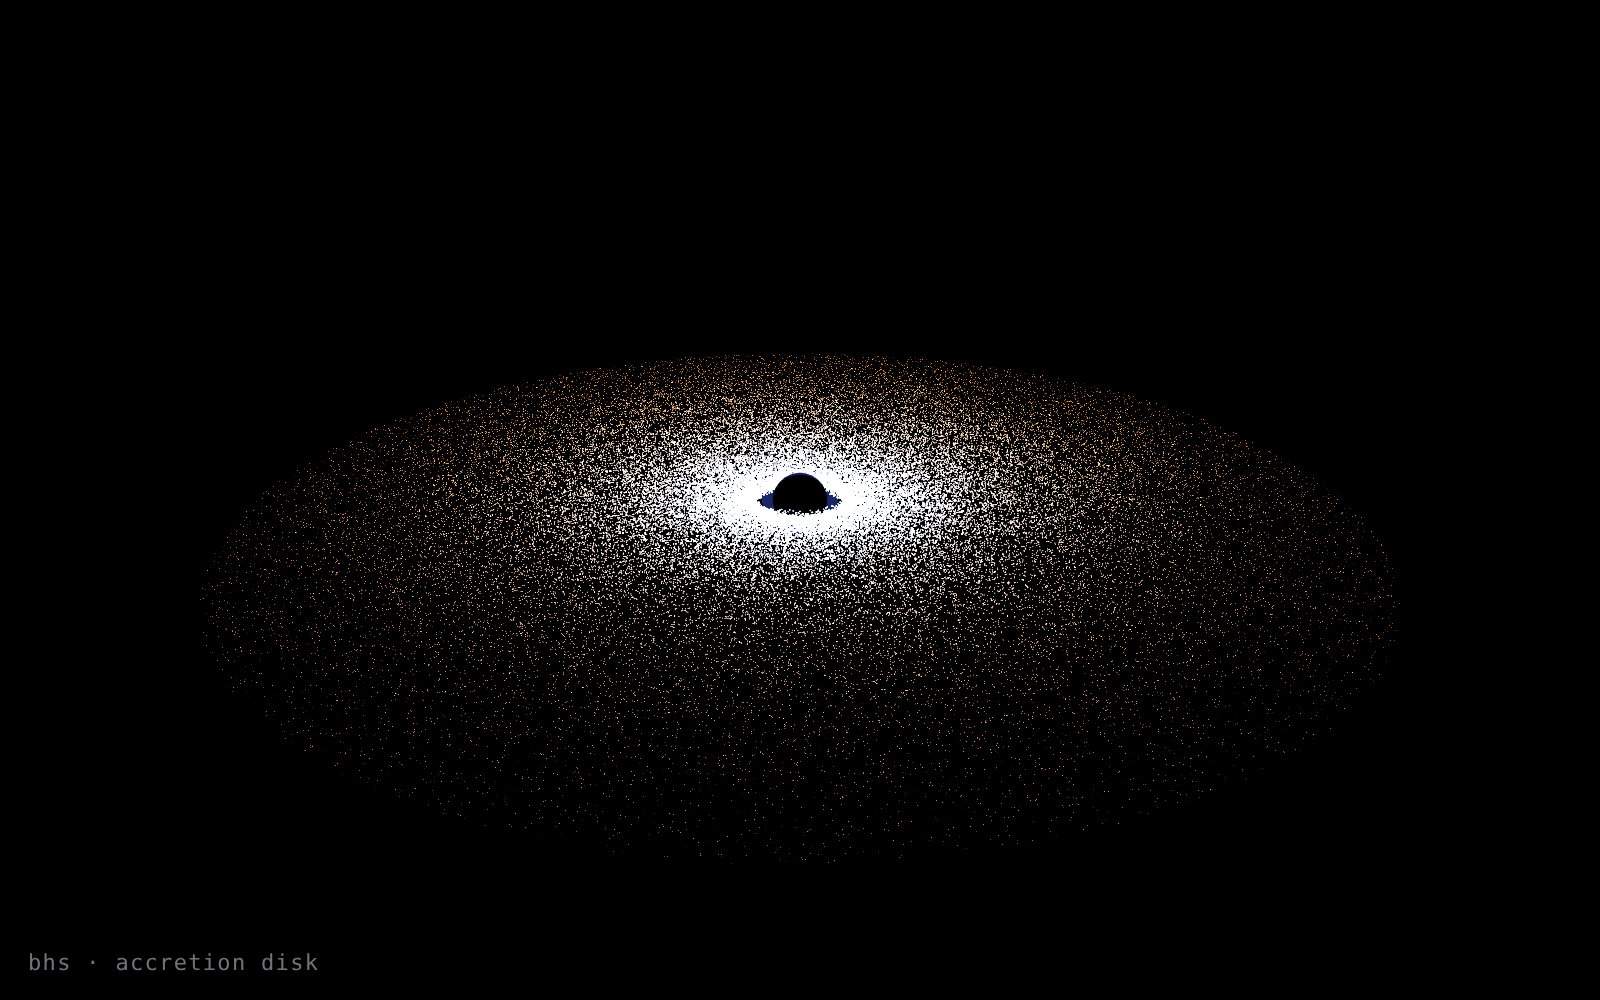
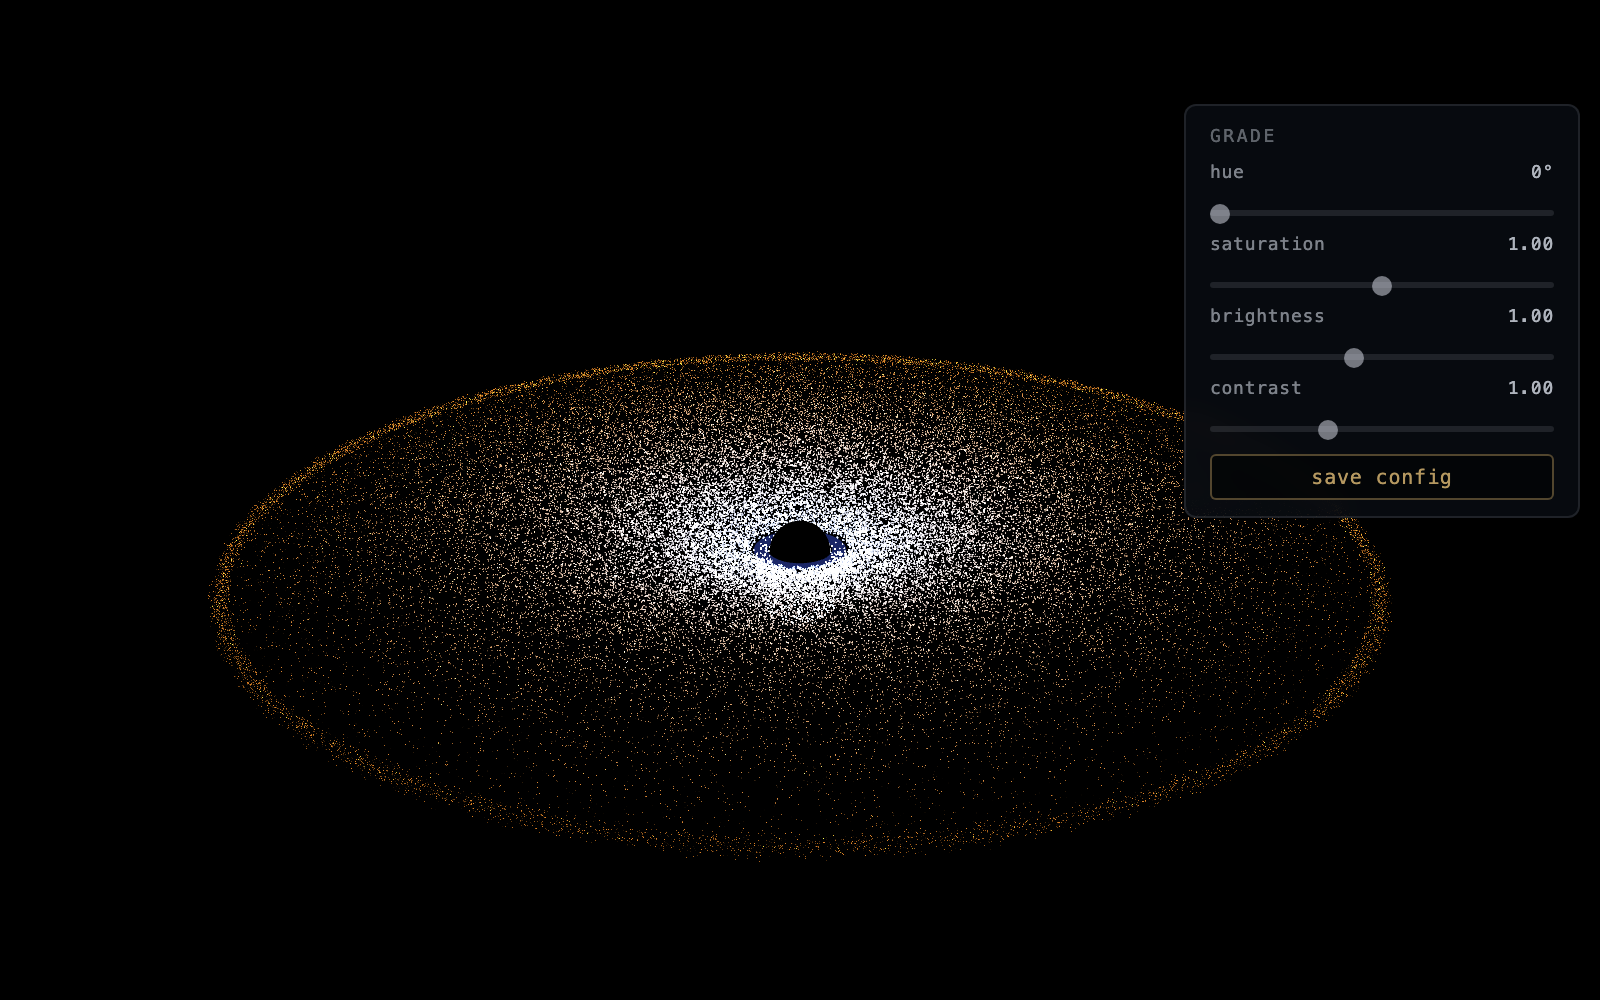
uzb: caving-in vortex disk + white-particle waterfall draining into the centre
- disk grains spiral inward (inflow ∝ 1/r → uniform areal density), recoloured by current radius
- mild concave bowl (CONCAVE) so sand funnels toward the centre
- waterfall is a draining vortex of crisp white grains, denser, spiralling into the hole
- globe half-submerged in the hole (top half emerges); glow ring at the waterline
- invisible depth-occluder hides the fall below the disk surface — only its top shows

diff --git a/pieces/uzb/index.html b/pieces/uzb/index.html
@@ -4,12 +4,14 @@
 <meta charset="utf-8">
 <meta name="viewport" content="width=device-width, initial-scale=1">
 <!-- MOTION: drift, intensity: gentle -->
-<!-- Accretion disk + singularity.
-     - Central singularity: dark sphere (light-eating void)
+<!-- Accretion disk + singularity, reimagined as a sieve.
+     - Central singularity: dark globe (light-eating void) + faint event-horizon glow
      - 60k Keplerian orbit particles: inner hot white-blue, outer warm amber
      - Gravitational lensing: vertex shader radial stretch near center
-     Viewer should read ACCRETION DISK within 2 seconds. -->
-<title>bhs · accretion disk</title>
+     - A waterfall of grains sieves from the centre and falls from the inner circle;
+       it fades into darkness, so its bottom is never seen.
+     Surroundings are pure darkness; the round disk is a point cloud (no solid plane). -->
+<title>uzb · the sieve</title>
 <style>
   html, body { margin:0; padding:0; height:100%; background:#000000; overflow:hidden;
                color:#cdd2dc; font-family: ui-monospace, "SF Mono", Menlo, monospace; }
@@ -18,7 +20,7 @@
 </style>
 </head>
 <body>
-<div class="id">bhs · accretion disk</div>
+<div class="id">uzb · the sieve</div>
 
 <script type="importmap">
 { "imports": {
@@ -48,15 +50,17 @@ controls.dampingFactor   = 0.05;
 controls.autoRotate      = false;
 controls.target.set(0, 0, 0);
 
-// ── 1. Central singularity: dark sphere ───────────────────────────────────────
+// ── 1. Central singularity: dark globe ─────────────────────────────────────────
+const GLOBE_Y = -0.62;   // nestled in the hole — top half emerges, bottom half submerged
 const singularity = new THREE.Mesh(
-  new THREE.SphereGeometry(0.3, 32, 32),
+  new THREE.SphereGeometry(0.34, 40, 40),
   new THREE.MeshBasicMaterial({ color: 0x000000 })
 );
-scene.add(singularity);
+singularity.position.y = GLOBE_Y;
+scene.add(singularity);   // opaque → the vortex drains around it
 
-// Faint event-horizon glow ring
-const glowGeo = new THREE.RingGeometry(0.30, 0.42, 64);
+// Faint event-horizon glow ring, laid flat at the globe's waterline
+const glowGeo = new THREE.RingGeometry(0.36, 0.52, 80);
 const glowMat = new THREE.MeshBasicMaterial({
   color: 0x4060ff,
   side: THREE.DoubleSide,
@@ -65,38 +69,50 @@ const glowMat = new THREE.MeshBasicMaterial({
   blending: THREE.AdditiveBlending,
   depthWrite: false
 });
-scene.add(new THREE.Mesh(glowGeo, glowMat));
+const glow = new THREE.Mesh(glowGeo, glowMat);
+glow.rotation.x = -Math.PI / 2;
+glow.position.y = GLOBE_Y + 0.02;
+scene.add(glow);
 
 // ── 2. Accretion disk: 60k Keplerian particles ────────────────────────────────
 const DISK_N   = 60000;
 const diskPos  = new Float32Array(DISK_N * 3);
 const diskCol  = new Float32Array(DISK_N * 3);
 const diskAngle= new Float32Array(DISK_N);   // current angle per particle
-const diskR    = new Float32Array(DISK_N);   // orbital radius
-const diskOmega= new Float32Array(DISK_N);   // angular velocity ∝ 1/sqrt(r)
+const diskR    = new Float32Array(DISK_N);   // orbital radius (shrinks: the sand caves in)
+const diskYBase= new Float32Array(DISK_N);   // per-particle vertical seed
 
 const R_INNER = 0.42;
 const R_OUTER = 6.0;
+const R_HOLE  = 0.5;     // sand caves in to here, then pours down the centre as the waterfall
+const CONCAVE = 0.7;     // a very mild downward bowl toward the centre
 
-for (let i=0; i<DISK_N; i++) {
-  const r  = R_INNER + Math.pow(Math.random(), 1.4) * (R_OUTER - R_INNER);
-  const th = Math.random() * Math.PI * 2;
-  const yOff = (Math.random() - 0.5) * 0.30 * Math.exp(-r * 0.4); // thinner near center
+// the disk is a shallow bowl — flat at the rim, dipping gently toward the centre
+function surfaceY(r) {
+  const u = 1.0 - Math.min(r / R_OUTER, 1.0);   // 0 at rim → 1 at centre
+  return -CONCAVE * u * u;
+}
 
-  diskR[i]     = r;
-  diskAngle[i] = th;
-  diskOmega[i] = 1.0 / Math.sqrt(r);   // Keplerian: ω ∝ r^(-3/2) → here ∝ 1/sqrt(r) for visual clarity
-
-  diskPos[i*3]   = r * Math.cos(th);
-  diskPos[i*3+1] = yOff;
-  diskPos[i*3+2] = r * Math.sin(th);
-
-  // Color: inner hot white-blue (#d0e0ff) → outer warm amber (#e08020)
-  const t = (r - R_INNER) / (R_OUTER - R_INNER); // 0=inner, 1=outer
-  // inner: (0.816, 0.878, 1.0)   outer: (0.878, 0.502, 0.125)
+function diskColorAt(i, r) {
+  // inner hot white-blue (#d0e0ff) → outer warm amber (#e08020), by CURRENT radius
+  const t = Math.max(0, Math.min(1, (r - R_INNER) / (R_OUTER - R_INNER)));
   diskCol[i*3]   = 0.816 + (0.878 - 0.816) * t;
   diskCol[i*3+1] = 0.878 + (0.502 - 0.878) * t;
   diskCol[i*3+2] = 1.000 + (0.125 - 1.000) * t;
+}
+function seedDisk(i, r) {
+  diskR[i]     = r;
+  diskAngle[i] = Math.random() * Math.PI * 2;
+  diskYBase[i] = Math.random() - 0.5;
+  diskColorAt(i, r);
+}
+for (let i=0; i<DISK_N; i++) {
+  const r = R_INNER + Math.pow(Math.random(), 1.4) * (R_OUTER - R_INNER);
+  seedDisk(i, r);
+  const yOff = diskYBase[i] * 0.30 * Math.exp(-r * 0.4); // thinner near center
+  diskPos[i*3]   = r * Math.cos(diskAngle[i]);
+  diskPos[i*3+1] = surfaceY(r) + yOff;
+  diskPos[i*3+2] = r * Math.sin(diskAngle[i]);
 }
 
 // Vertex shader with gravitational lensing stretch
@@ -133,6 +149,7 @@ const diskGeo = new THREE.BufferGeometry();
 const diskPosBuf = new THREE.BufferAttribute(diskPos, 3);
 const diskColBuf = new THREE.BufferAttribute(diskCol, 3);
 diskPosBuf.setUsage(THREE.DynamicDrawUsage);
+diskColBuf.setUsage(THREE.DynamicDrawUsage);
 diskGeo.setAttribute('position', diskPosBuf);
 diskGeo.setAttribute('color',    diskColBuf);
 
@@ -145,7 +162,84 @@ const diskMat = new THREE.ShaderMaterial({
 });
 scene.add(new THREE.Points(diskGeo, diskMat));
 
-// Jets removed — accretion disk + singularity is the complete composition.
+// ── 2b. Invisible depth-occluder along the disk surface ─────────────────────────
+//     Writes depth only (colorWrite off, so no visible solid disk). It makes the
+//     near disk surface OCCLUDE the waterfall below it — the fall is seen only
+//     spilling through the central hole, never as a column hanging in open space.
+const occGeo = new THREE.CircleGeometry(R_OUTER, 96);
+const occMat = new THREE.MeshBasicMaterial({ colorWrite: false });
+const occluder = new THREE.Mesh(occGeo, occMat);
+occluder.rotation.x = -Math.PI / 2;
+occluder.position.y = -1.35;   // below the bowl → hides the fall under the disk; only its top shows
+scene.add(occluder);
+
+// ── 3. Waterfall: grains sieve from the centre and fall from the inner circle ───
+//      The column fades to black as it descends — the bottom is never seen.
+const WF_N    = 4200;
+const WF_FADE = 3.4;      // fully invisible by this depth → no visible bottom
+const wfPos   = new Float32Array(WF_N * 3);
+const wfAlpha = new Float32Array(WF_N);   // per-grain opacity (the depth fade)
+const wfRad   = new Float32Array(WF_N);   // vortex radius (shrinks as it drains)
+const wfAng   = new Float32Array(WF_N);   // vortex angle
+const wfVy    = new Float32Array(WF_N);   // descent speed
+const wfSeed  = new Float32Array(WF_N);
+
+// The waterfall is a draining vortex: grains spiral inward AND down into the hole,
+// continuous with the disk's inflow — not a straight column dropping from the sky.
+function spawnFall(i) {
+  wfRad[i]   = 0.34 + Math.random() * (R_HOLE - 0.30);   // enters at the hole rim, by the globe
+  wfAng[i]   = Math.random() * Math.PI * 2;
+  wfVy[i]    = 0.25 + Math.random() * 0.25;
+  wfSeed[i]  = Math.random() * 1000;
+  const y    = surfaceY(wfRad[i]) - Math.random() * 0.1;
+  wfPos[i*3]   = wfRad[i] * Math.cos(wfAng[i]);
+  wfPos[i*3+1] = y;
+  wfPos[i*3+2] = wfRad[i] * Math.sin(wfAng[i]);
+}
+for (let i=0; i<WF_N; i++) {
+  spawnFall(i);
+  // distribute initial depths across the drain so the vortex reads immediately
+  const y = surfaceY(R_HOLE) - Math.random() * WF_FADE;
+  wfRad[i] = Math.max(0.05, R_HOLE * (1 - 0.22 * (surfaceY(R_HOLE) - y)));
+  wfPos[i*3]   = wfRad[i] * Math.cos(wfAng[i]);
+  wfPos[i*3+1] = y;
+  wfPos[i*3+2] = wfRad[i] * Math.sin(wfAng[i]);
+}
+
+// Normal-blended white grains (not additive) so they never sum into a glowing bar —
+// each grain is a discrete white speck whose opacity fades to zero as it descends.
+const wfVS = `
+  attribute float aAlpha;
+  varying float vA;
+  void main() {
+    vA = aAlpha;
+    vec4 mv = modelViewMatrix * vec4(position, 1.0);
+    gl_Position = projectionMatrix * mv;
+    gl_PointSize = 2.2;   // fine speck, on the disk's scale (NOT distance-scaled — that made giant blobs)
+  }
+`;
+const wfFS = `
+  varying float vA;
+  void main() {
+    float d = length(gl_PointCoord - 0.5) * 2.0;
+    if (d > 1.0) discard;
+    float s = 1.0 - smoothstep(0.82, 1.0, d);   // crisp grain, not a soft smoky blob
+    gl_FragColor = vec4(0.95, 0.97, 1.0, vA * s);
+  }
+`;
+const wfGeo = new THREE.BufferGeometry();
+const wfPosBuf   = new THREE.BufferAttribute(wfPos, 3);   wfPosBuf.setUsage(THREE.DynamicDrawUsage);
+const wfAlphaBuf = new THREE.BufferAttribute(wfAlpha, 1); wfAlphaBuf.setUsage(THREE.DynamicDrawUsage);
+wfGeo.setAttribute('position', wfPosBuf);
+wfGeo.setAttribute('aAlpha',   wfAlphaBuf);
+const wfMat = new THREE.ShaderMaterial({
+  vertexShader:   wfVS,
+  fragmentShader: wfFS,
+  blending:       THREE.NormalBlending,
+  transparent:    true,
+  depthWrite:     false   // depthTest stays on → the globe occludes the far side
+});
+scene.add(new THREE.Points(wfGeo, wfMat));
 
 window.addEventListener('resize', () => {
   camera.aspect = innerWidth / innerHeight;
@@ -154,23 +248,45 @@ window.addEventListener('resize', () => {
 });
 
 // ── Animation ─────────────────────────────────────────────────────────────────
+const dt = 0.016;
 let t = 0;
 function animate() {
   requestAnimationFrame(animate);
-  t += 0.016;
+  t += dt;
 
-  // Update disk particle positions (Keplerian orbit)
+  // Disk: Keplerian orbit + slow inward drift — the sand caves toward the centre.
   for (let i=0; i<DISK_N; i++) {
-    diskAngle[i] += diskOmega[i] * 0.008;
-    const r   = diskR[i];
-    const th  = diskAngle[i];
-    const yOff= diskPos[i*3+1]; // keep same y-offset
+    let r = diskR[i];
+    const omega = 1.0 / Math.sqrt(r);     // inner orbits faster → a tightening spiral
+    diskAngle[i] += omega * 0.008;
+    r -= (0.45 / r) * dt;   // inflow ∝ 1/r → areal density stays UNIFORM across the disk
+    if (r <= R_HOLE) { seedDisk(i, R_OUTER * (0.99 - Math.random() * 0.02)); r = diskR[i]; }
+    else diskR[i] = r;
+    const th = diskAngle[i];
     diskPos[i*3]   = r * Math.cos(th);
     diskPos[i*3+2] = r * Math.sin(th);
-    // small warp: slight y wobble
-    diskPos[i*3+1] = yOff * (0.98 + 0.02 * Math.sin(t * diskOmega[i] * 2.3 + i * 0.001));
+    diskPos[i*3+1] = surfaceY(r) + diskYBase[i] * 0.12 * (0.9 + 0.1 * Math.sin(t * omega * 2.3 + i * 0.001));
+    diskColorAt(i, r);
   }
   diskPosBuf.needsUpdate = true;
+  diskColBuf.needsUpdate = true;
+
+  // Waterfall: a draining vortex — grains spiral inward and down into the hole.
+  for (let i=0; i<WF_N; i++) {
+    wfVy[i] = Math.min(wfVy[i] + 0.9 * dt, 1.6);
+    let rr  = Math.max(0.04, wfRad[i] - 0.16 * dt);   // spirals inward (drains)
+    wfRad[i] = rr;
+    wfAng[i] += (1.1 / Math.max(rr, 0.07)) * dt;        // swirl quickens toward the axis
+    let y = wfPos[i*3+1] - wfVy[i] * dt;
+    if (y < -WF_FADE || rr <= 0.045) { spawnFall(i); rr = wfRad[i]; y = wfPos[i*3+1]; }
+    wfPos[i*3]   = rr * Math.cos(wfAng[i]);
+    wfPos[i*3+1] = y;
+    wfPos[i*3+2] = rr * Math.sin(wfAng[i]);
+    // stays opaque through the visible top, then winks out → no visible bottom
+    wfAlpha[i] = Math.max(0, Math.min(1, (y + WF_FADE) / 1.3));
+  }
+  wfPosBuf.needsUpdate = true;
+  wfAlphaBuf.needsUpdate = true;
 
   controls.update();
   renderer.render(scene, camera);
